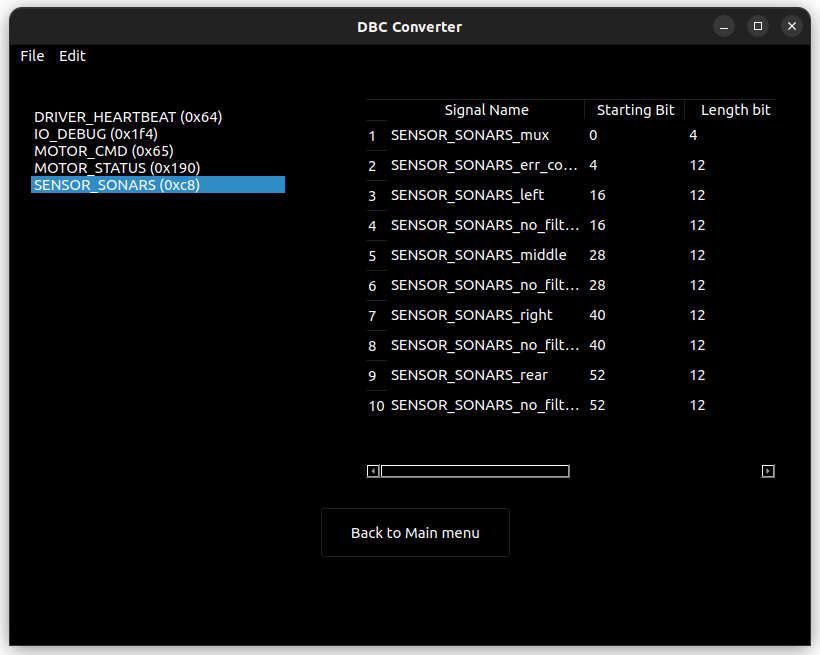
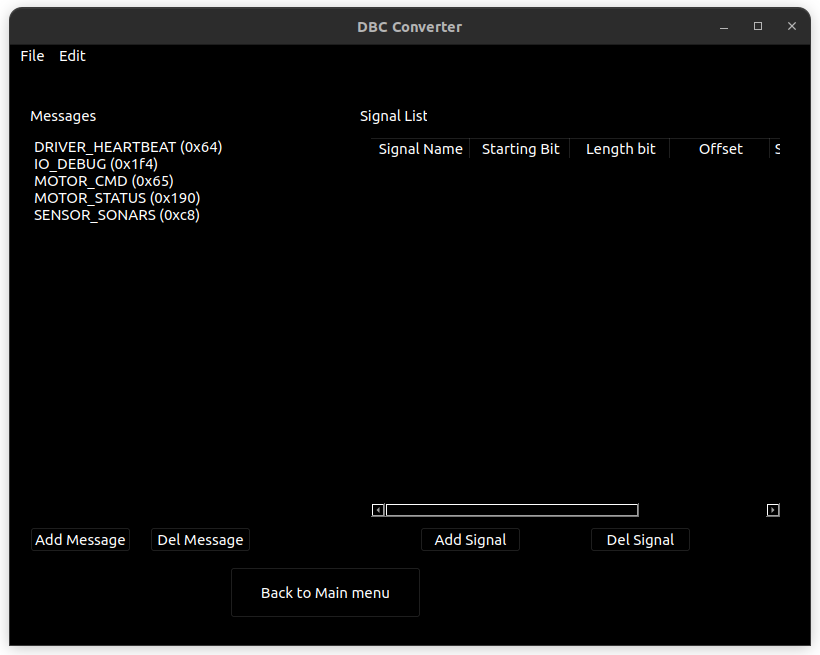
Updating Readme file

diff --git a/README.md b/README.md
@@ -5,4 +5,7 @@ Start With Home Page<br>
 ![welcome Page](Ui_files/Ui_pics/Homepage.png)<br>
 Click File>Open Select your DBC<br>
 If DBC is openable without errors you can easily view it
-![Viewer Page](Ui_files/Ui_pics/Viewer.png)
+![Viewer Page](Ui_files/Ui_pics/Viewer.png)<br>
+
+You can now add/delete messages and signals and save the DBC using File->Save
+![Add Message](Ui_files/Ui_pics/Add_Message.png)
